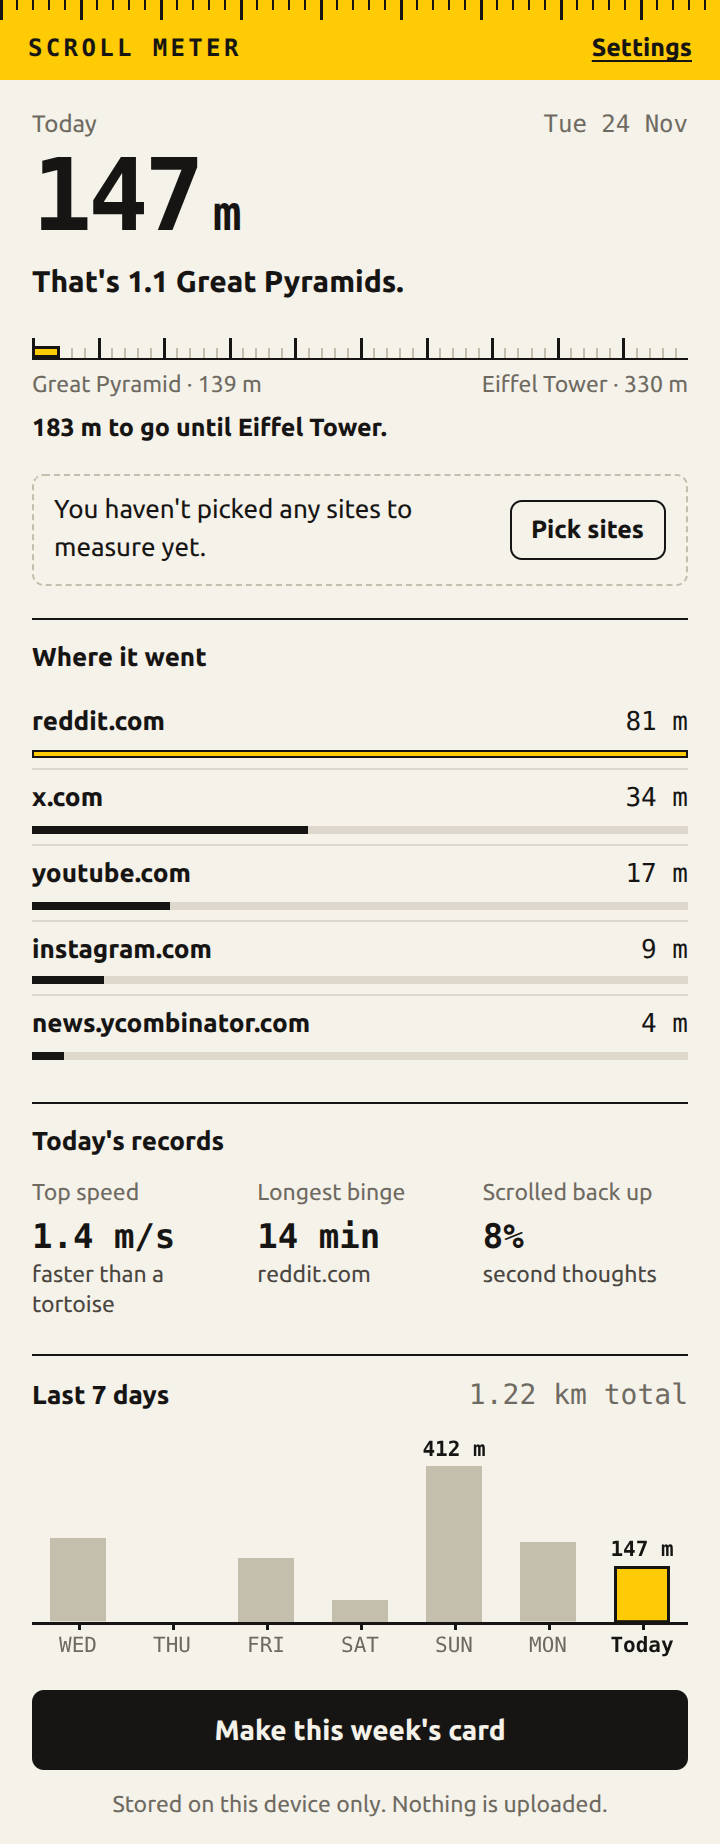
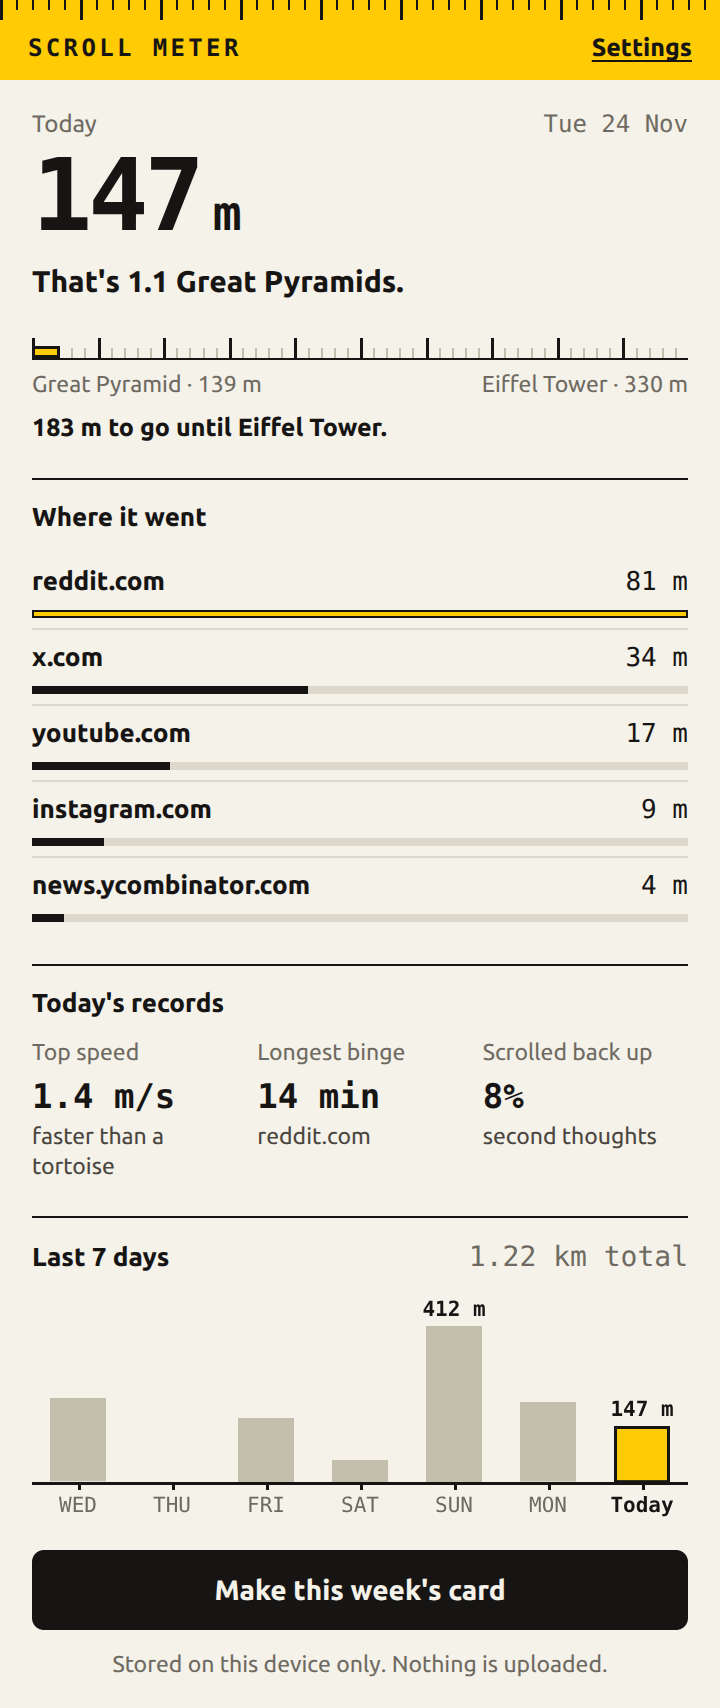
README: clean popup screenshot, text architecture diagram, table headers

diff --git a/README.md b/README.md
@@ -39,7 +39,7 @@ for an evening covers the height of a skyscraper, and a number like "412 m" land
 
 ## Features
 
-| | |
+| Feature | What you get |
 | --- | --- |
 | **Daily distance** | Every pixel you scroll, up and down, converted to meters (or feet) and compared to something you can picture. |
 | **The climb** | A ruler in the popup and a strip of tape on the page count down to the next landmark, and mark it when you pass one. |
@@ -150,21 +150,18 @@ Open `src/wrapped/wrapped.html?demo=1` inside the extension to render the weekly
 
 ### Architecture
 
-```mermaid
-flowchart LR
-  subgraph Page["Site you opted in to"]
-    CS["content.js<br/>measures scrolling<br/>tape overlay + nudge"]
-  end
-  subgraph Worker["Service worker"]
-    BG["background.js<br/>serialized writes<br/>records, badge, limits"]
-  end
-  ST[("chrome.storage.local")]
-  UI["Popup · Settings · Weekly card"]
-
-  CS -- "batched every 3 s" --> BG
-  BG -- "today's total, milestones, nudges" --> CS
-  BG --> ST
-  ST --> UI
+```
+┌────────────────────────────┐                                ┌────────────────────────────┐
+│ content.js                 │   scroll batches, every 3 s    │ background.js              │
+│ runs on sites you pick     │  ────────────────────────────► │ service worker             │
+│ measures, overlay, nudge   │  ◄──────────────────────────── │ writes, records, badge     │
+└────────────────────────────┘   total, landmarks, nudges     └────────────────────────────┘
+                                                                            │ one write at a time
+                                                                            ▼
+┌────────────────────────────┐                                ┌────────────────────────────┐
+│ popup · settings ·         │             reads              │ chrome.storage.local       │
+│ weekly card                │  ◄──────────────────────────── │ on your device only        │
+└────────────────────────────┘                                └────────────────────────────┘
 ```
 
 ### Project layout
